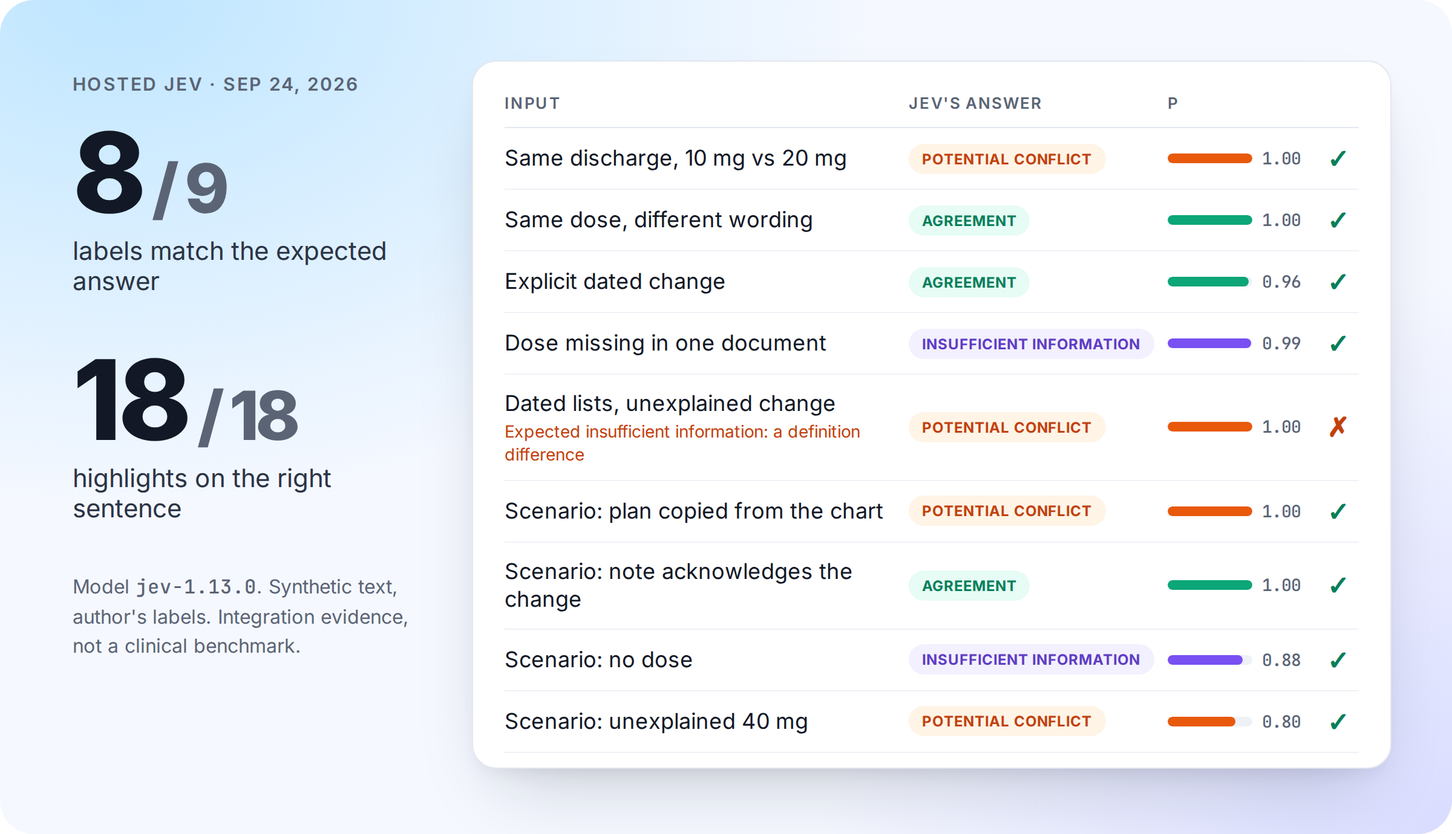
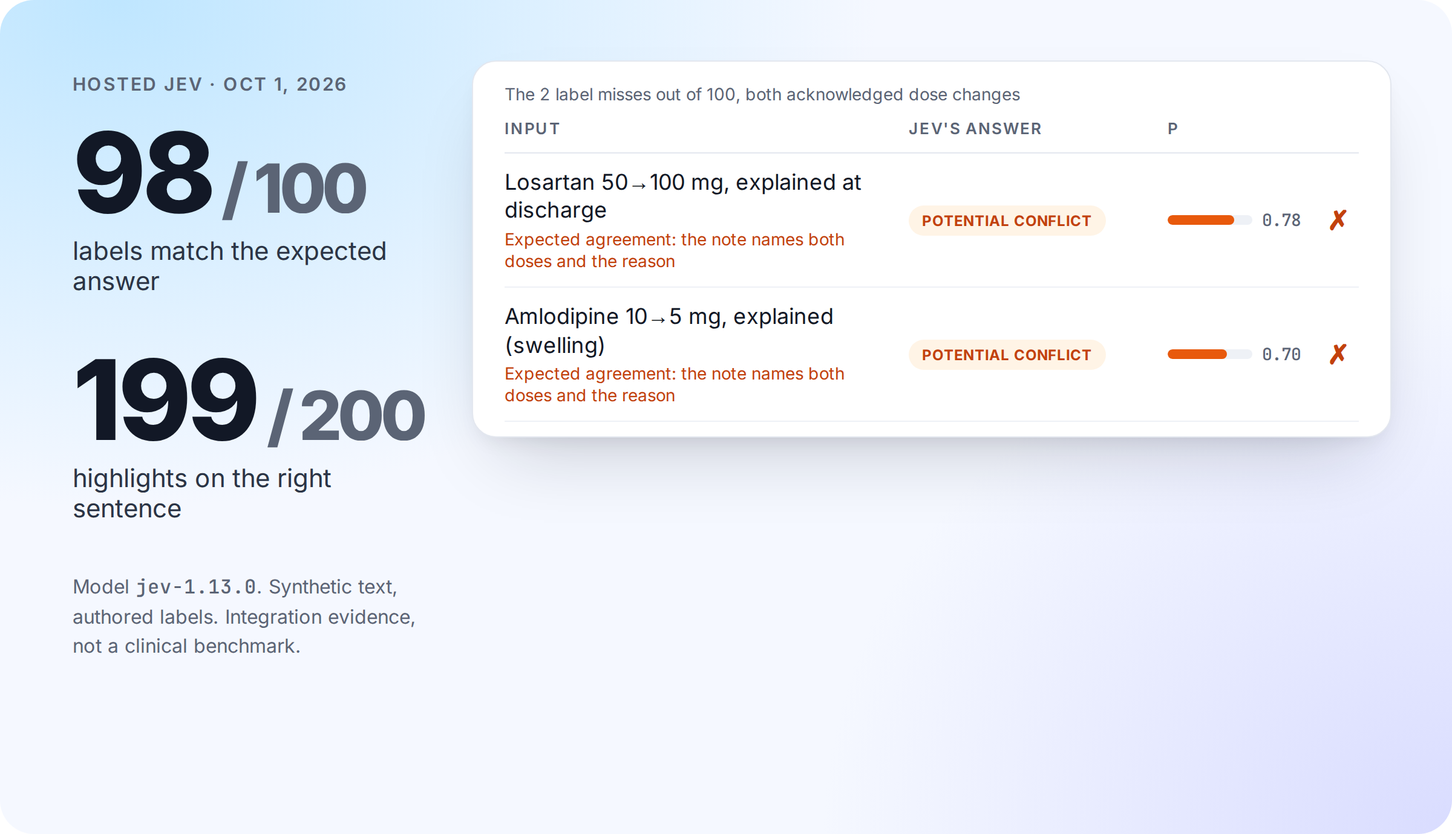
Re-measure all backends on a 100-case benchmark, fix review findings from the last commit
- Add the five original hand-written dose cases back to the generated benchmark (96 cases;
  100 with the scenario notes), with specs, and relabel dose-dates-unexplained to
  potential_conflict per the contract criteria.
- Measure hosted Jev (98/100, 199/200 highlights), Jebadiah 27B (92/100), AutoJev-27B
  (84/100) and Jebadiah 9B v2 (82/100) on October 1, 2026; every Jebadiah 27B miss is an
  acknowledged dose change. Rewrite ARTICLE.md's results and open-model sections and
  SELF-HOSTING.md steps 4, 6 and 7 around these runs; drop Decider everywhere.
- Fix the last commit: measure-cases.json is kept so `measure` checks the demo's own notes,
  not for the e2e cassettes; the hosted-Jev answer rule fired once, not "several" times;
  the misses' numbers are probabilities, not confidence; re-render results.png, which still
  showed 8/9.
- Backends figure: equal row heights so the two cards align, Jev's PHI path is uncertain
  (TypeSafe offers no BAA yet), Jebadiah's tag shows its benchmark score.

🤖 Generated with Claude Code (https://claude.com/claude-code)

diff --git a/article/figures.html b/article/figures.html
@@ -284,18 +284,18 @@
   <div style="position:absolute;left:0;right:0;top:504px;text-align:center;font-size:22px;font-weight:600;color:var(--body)">The model never changes the chart.</div>
 </figure>
 
-<!-- 7. Hosted Jev on the 95-case benchmark (4 scenario notes + 91 generated cases). -->
+<!-- 7. Hosted Jev on the 100-case benchmark (4 scenario notes + 96 generated cases). -->
 <figure id="results" style="height:690px">
   <div style="position:absolute;left:60px;top:60px;width:300px">
     <div class="eyebrow">Hosted Jev · Oct 1, 2026</div>
-    <div style="font-size:92px;font-weight:800;letter-spacing:-0.04em;margin-top:18px;line-height:1">92<span style="color:var(--muted);font-size:56px"> / 95</span></div>
+    <div style="font-size:92px;font-weight:800;letter-spacing:-0.04em;margin-top:18px;line-height:1">98<span style="color:var(--muted);font-size:56px"> / 100</span></div>
     <div style="font-size:21px;color:var(--body);margin-top:6px">labels match the expected answer</div>
-    <div style="font-size:92px;font-weight:800;letter-spacing:-0.04em;margin-top:40px;line-height:1">189<span style="color:var(--muted);font-size:56px"> / 190</span></div>
+    <div style="font-size:92px;font-weight:800;letter-spacing:-0.04em;margin-top:40px;line-height:1">199<span style="color:var(--muted);font-size:56px"> / 200</span></div>
     <div style="font-size:21px;color:var(--body);margin-top:6px">highlights on the right sentence</div>
     <div style="font-size:16px;color:var(--muted);margin-top:40px;line-height:1.5">Model <span class="mono">jev-1.13.0</span>. Synthetic text, authored labels. Integration evidence, not a clinical benchmark.</div>
   </div>
   <div class="card" style="position:absolute;left:390px;top:50px;width:760px;padding:18px 26px 12px">
-    <div style="font-size:14px;color:var(--muted);padding-bottom:4px">The 3 label misses out of 95, all acknowledged dose changes</div>
+    <div style="font-size:14px;color:var(--muted);padding-bottom:4px">The 2 label misses out of 100, both acknowledged dose changes</div>
     <div style="display:grid;grid-template-columns:1fr 200px 110px 34px;gap:14px;align-items:center;padding:8px 0 12px;border-bottom:1px solid var(--line)" class="eyebrow">
       <span style="font-size:13px">Input</span><span style="font-size:13px">Jev's answer</span><span style="font-size:13px">p</span><span></span>
     </div>
@@ -315,7 +315,7 @@
 </figure>
 
 <!-- 9. Hosted Jev or self-hosted Jebadiah (replaces the comparison table). -->
-<figure id="backends" style="height:620px">
+<figure id="backends" style="height:680px">
   <div style="position:absolute;left:0;right:0;top:40px;display:flex;justify-content:center">
     <div class="mono" style="background:#121826;color:#e6edf7;border-radius:12px;padding:10px 18px;font-size:18px">CONSISTENCY_BACKEND = <span style="color:#ffb37a">typesafe</span> | <span style="color:#ffb37a">modal</span></div>
   </div>
@@ -337,22 +337,21 @@
 
 <script>
 // Measured on October 1, 2026 (npm --prefix provider run measure:generated, plus the 4
-// scenario notes from `measure`); see ARTICLE.md. Shows only the 3 label misses out of 95.
+// scenario notes from `measure`); see ARTICLE.md. Shows only the 2 label misses out of 100.
 const LABEL = {
   potential_conflict: ['conflict', 'Potential conflict'],
   agreement: ['agree', 'Agreement'],
   insufficient_information: ['unknown', 'Insufficient information'],
 };
 const RESULTS = [
-  ['Losartan 50→100 mg, explained at discharge', 'agreement', 'potential_conflict', 0.83],
-  ['Amlodipine 10→5 mg, explained (swelling)', 'agreement', 'potential_conflict', 0.72],
-  ['Sertraline 100→50 mg, explained (side effect)', 'agreement', 'potential_conflict', 0.57],
+  ['Losartan 50→100 mg, explained at discharge', 'agreement', 'potential_conflict', 0.78],
+  ['Amlodipine 10→5 mg, explained (swelling)', 'agreement', 'potential_conflict', 0.70],
 ];
 const COLOR = { conflict: 'var(--conflict)', agree: 'var(--agree)', unknown: 'var(--unknown)' };
 document.getElementById('rows').innerHTML = RESULTS.map(([name, expected, got, p]) => {
   const [cls, text] = LABEL[got];
   const ok = expected === got;
-  const note = ok ? '' : `<div style="font-size:14px;color:var(--conflict-ink);margin-top:3px">Expected ${LABEL[expected][1].toLowerCase()}: a definition difference</div>`;
+  const note = ok ? '' : `<div style="font-size:14px;color:var(--conflict-ink);margin-top:3px">Expected ${LABEL[expected][1].toLowerCase()}: the note names both doses and the reason</div>`;
   return `<div style="display:grid;grid-template-columns:1fr 200px 110px 34px;gap:14px;align-items:center;padding:12px 0;border-bottom:1px solid #eef1f6">
     <div style="font-size:18px;line-height:1.3">${name}${note}</div>
     <div><span class="chip ${cls}" style="font-size:12px;padding:5px 11px">${text}</span></div>
@@ -386,9 +385,9 @@ const BACKENDS = [
     ['Input', 'Named JSON state and typed questions built from chart text'],
     ['Setup', 'An API key in Medplum project secrets'],
     ['Cost', 'Per request'],
-    ['PHI path', 'Needs a BAA or DPA with TypeSafe'],
+    ['PHI path', 'Uncertain: TypeSafe does not offer a BAA yet'],
   ] },
-  { title: 'Jebadiah on Modal', tag: ['unknown', 'Under evaluation'], accent: '#d5dbe8', rows: [
+  { title: 'Jebadiah on Modal', tag: ['unknown', '92 of 100 labels'], accent: '#d5dbe8', rows: [
     ['Model', 'Open Apache-2.0 checkpoint on a private Modal GPU Server'],
     ['Input', 'The same request as hosted Jev'],
     ['Setup', 'Weight staging, a GPU Server, proxy tokens, cold starts'],
@@ -398,10 +397,10 @@ const BACKENDS = [
 ];
 document.getElementById('backend-cards').innerHTML = BACKENDS.map((b) => `
   <div class="card" style="padding:28px 30px;border-color:${b.accent}">
-    <div style="display:flex;align-items:center;justify-content:space-between;gap:12px"><b style="font-size:28px;letter-spacing:-0.02em">${b.title}</b>
-      <span class="chip ${b.tag[0]}" style="font-size:12px;padding:5px 11px">${b.tag[1]}</span></div>
+    <div style="display:flex;align-items:center;justify-content:space-between;gap:12px;height:40px"><b style="font-size:28px;letter-spacing:-0.02em;white-space:nowrap">${b.title}</b>
+      <span class="chip ${b.tag[0]}" style="font-size:12px;padding:5px 11px;white-space:nowrap">${b.tag[1]}</span></div>
     <div style="margin-top:20px;display:flex;flex-direction:column">${b.rows.map(([k, v]) => `
-      <div style="display:grid;grid-template-columns:100px 1fr;gap:14px;padding:13px 0;border-top:1px solid #eef1f6">
+      <div style="display:grid;grid-template-columns:100px 1fr;gap:14px;padding:13px 0;min-height:77px;box-sizing:border-box;align-items:start;border-top:1px solid #eef1f6">
         <span class="eyebrow" style="font-size:13px;padding-top:3px">${k}</span><span style="font-size:18px;line-height:1.4;color:var(--body)">${v}</span></div>`).join('')}
     </div>
   </div>`).join('');

diff --git a/provider/scripts/measure-jev.ts b/provider/scripts/measure-jev.ts
@@ -2,14 +2,15 @@
 // exactly the state and questions the Bot sends (built by the Bot's own buildRequest).
 //
 //   npm --prefix provider run measure           # hosted Jev, the demo's 4 scenario notes, one round
-//   npm --prefix provider run measure:generated # hosted Jev, the ~90-case generated benchmark
+//   npm --prefix provider run measure:generated # hosted Jev, the 96-case generated benchmark
 //   npm --prefix provider run measure -- --rounds 3
 //   npm --prefix provider run measure -- --backend modal  # the self-hosted model on the private Modal Server
 //   npm --prefix provider run measure -- --cases scripts/gen-cases/generated-cases.json
 //
 // The generated batch (scripts/gen-cases/, see its README.md or the regenerate-measure-cases
-// skill to add more) is the benchmark; the scenario notes above stay here because the guided
-// demo's e2e cassettes replay them.
+// skill to add more) is the benchmark; the scenario notes stay here so a question or contract
+// change is checked against the exact notes the guided demo sends before its e2e cassettes are
+// re-recorded.
 //
 // Hosted Jev needs TYPESAFE_API_KEY; Modal needs CONSISTENCY_MODEL_URL, CONSISTENCY_MODAL_KEY
 // and CONSISTENCY_MODAL_SECRET, in the environment or the root .env. Writes

diff --git a/provider/bots/consistency.ts b/provider/bots/consistency.ts
@@ -551,8 +551,8 @@ export function readSentence(answer: any, text: string): string | null | undefin
 /**
  * Medication `i`'s result from the model's answers.
  *
- * The no-dose rule: Jebadiah, AutoJev and Decider each labeled a note with no dose `agreement`
- * while their own highlight question found no dose sentence. The dose criteria say a missing
+ * The no-dose rule: the self-hosted models (Jebadiah, AutoJev) labeled a note with no dose
+ * `agreement` while their own highlight question found no dose sentence. The dose criteria say a missing
  * dose is insufficient information, so the Bot trusts the highlight answer over an `agreement`
  * label. It never downgrades `potential_conflict`. Hosted Jev labels that note correctly itself.
  * @param answers - All answers of the model response.

diff --git a/ARTICLE.md b/ARTICLE.md
@@ -80,11 +80,11 @@ The provider's response is recorded with the result. Signing with a reason puts 
 
 ## How good is Jev? What the tests tell us
 
-As of October 1, 2026, model `jev-1.13.0` matched our expected label on 92 of 95 test inputs and selected the expected sentence for 189 of 190 highlights. The inputs are the guided demo's four scenario notes plus a generated batch of 91 cases covering dose increases and decreases, equivalent wordings (units, abbreviations, tablet counts), explicit acknowledgments, and missing or unmentioned doses, across more than 30 medications. `provider/scripts/gen-cases/` holds the specs and the prose Sonnet subagents wrote from them; see its README or the `regenerate-measure-cases` skill to extend the batch:
+As of October 1, 2026, model `jev-1.13.0` matched our expected label on 98 of 100 test inputs and selected the expected sentence for 199 of 200 highlights. The inputs are the guided demo's four scenario notes, our five original hand-written dose cases, and a generated batch of 91 cases covering dose increases and decreases, equivalent wordings (units, abbreviations, tablet counts), explicit acknowledgments, and missing or unmentioned doses, across 41 medications. `provider/scripts/gen-cases/` holds the specs and the prose Sonnet subagents wrote from them; see its README or the `regenerate-measure-cases` skill to extend the batch:
 
-![Hosted Jev, October 1, 2026, model jev-1.13.0: 92 of 95 labels match the expected answer and 189 of 190 highlights land on the right sentence.](article/images/results.png)
+![Hosted Jev, October 1, 2026, model jev-1.13.0: 98 of 100 labels match the expected answer and 199 of 200 highlights land on the right sentence.](article/images/results.png)
 
-The three label misses share a pattern. Each note explicitly named the old dose, the new dose, and a reason for the change — language the Bot's criteria call `agreement` — and Jev scored it `potential_conflict` instead, with confidence between 0.57 and 0.83. Most similarly worded acknowledgment cases in the same batch scored correctly, so this isn't a uniform failure; it looks sensitive to the specific acknowledgment phrasing rather than to acknowledgment itself. The one highlight miss picked a neighboring sentence over the one stating the dose, in a note using a wording pair (daily vs. once a day) outside what we'd tested before.
+The two label misses share a pattern. Each note explicitly named the old dose, the new dose, and a reason for the change — language the Bot's criteria call `agreement` — and Jev scored it `potential_conflict` instead, with probabilities of 0.78 and 0.70. A third acknowledged change, sertraline lowered from 100 mg to 50 mg, sits on the boundary: it scored `potential_conflict` at 0.57 in one run and `agreement` at 0.50 in the next. Most similarly worded acknowledgment cases in the same batch scored correctly, so this isn't a uniform failure; it looks sensitive to the specific acknowledgment phrasing rather than to acknowledgment itself. The one highlight miss picked a neighboring sentence over the one stating the dose, in a note using a wording pair (daily vs. once a day) outside what we'd tested before.
 
 That result makes acknowledgment phrasing part of the work still to evaluate. These are synthetic inputs generated from structured specs, not clinician-reviewed cases; they show how the model responds to our questions, not clinical accuracy. A clinical evaluation needs clinician-reviewed labels and must treat false agreements, which miss a dose error, differently from false conflicts, which cost the provider a review. Therefore, the displayed scores are a distribution over the available answers, not a measure of clinical correctness.
 
@@ -96,25 +96,24 @@ The Bot now asks for the dose "as the plan, whether continued, new or changed". 
 
 ## Evaluating an open model
 
-To explore running an open-weights model in our own [Modal](https://modal.com/) account, we deployed top-performing Jev-like open models on a private Modal GPU behind the same `/v1/systemone` request, so we can keep the same Medplum demo code. We took candidates with downloadable weights from the September 28 [Decision Index](https://huggingface.co/spaces/multimodalart/jev-decision-index) and ran the Bot's own requests for the nine-case set we had at the time (five authored dose cases and the four scenario notes). This comparison predates the larger generated benchmark above and is next in line for a refresh:
+To explore running an open-weights model in our own [Modal](https://modal.com/) account, we deployed top-performing Jev-like open models on a private Modal GPU behind the same `/v1/systemone` request, so we can keep the same Medplum demo code. We took candidates with downloadable weights from the September 28 [Decision Index](https://huggingface.co/spaces/multimodalart/jev-decision-index) and, on October 1, 2026, ran the Bot's own requests for the same 100-case benchmark as above on each of them:
 
 | Model | Decision Index | NLI4CT | Calibration error | Labels matching the reference | Highlights |
 | --- | ---: | ---: | ---: | ---: | ---: |
-| **Jebadiah 27B** | 54.67 | 0.832 | **0.014** | **8 of 9** | 18 of 18 |
-| AutoJev-27B | 56.40 | **0.848** | 0.018 | 7 of 9 | 18 of 18 |
-| Decider-35B-A3B NVFP4 | 47.11 | 0.785 | 0.023 | 7 of 9 | 18 of 18 |
-| Jebadiah 9B v2 | not listed | | | 6 of 9 | 17 of 18 |
-| Hosted Jev, for comparison | reference | 0.841 | | 8 of 9 | 18 of 18 |
+| **Jebadiah 27B** | 54.67 | 0.832 | **0.014** | **92 of 100** | 199 of 200 |
+| AutoJev-27B | 56.40 | **0.848** | 0.018 | 84 of 100 | 199 of 200 |
+| Jebadiah 9B v2 | not listed | | | 82 of 100 | 198 of 200 |
+| Hosted Jev, for comparison | reference | 0.841 | | 98 of 100 | 199 of 200 |
 
-The self-hosted labels include one answer rule. Jebadiah 27B, AutoJev and Decider each labeled the note with no dose `agreement` while their own highlight question found no dose sentence, so the Bot reports that case as insufficient information. Hosted Jev gets it right without the rule, which changes none of its answers.
+The self-hosted labels include one answer rule. All three open models label a note that never states a dose `agreement` while their own highlight question finds no dose sentence in it, so the Bot reports that case as insufficient information. The rule fired on 11 of the 100 cases for Jebadiah 27B and AutoJev and on 16 for Jebadiah 9B; hosted Jev needed it once. It never changes a `potential_conflict` answer.
 
-The top performing one was Jebadiah 27B. It matched hosted Jev's count, and its calibration error is the lowest among the top entries, which matters because the card shows the probabilities. AutoJev-27B ranks higher on the index and on clinical-trial statements (NLI4CT), but on our cases it mislabeled both dated dose changes, one of them at 0.99. The index's top entry, Surogate Rune, answers through its own serving engine and decision API rather than the `/v1/systemone` request the Bot sends, and has a calibration error of 0.12, therefore it wasn't tested. Jebadiah's remaining miss is a dated change with no explanation, which it flagged as a conflict (0.94) where the reference expects insufficient information.
+The top performing one was Jebadiah 27B, and its calibration error is the lowest among the top entries, which matters because the card shows the probabilities. Every one of its eight misses is an explicitly acknowledged dose change that it called `potential_conflict`, with probabilities between 0.51 and 0.63: the benchmark has 19 such cases, and it missed 8 of them where hosted Jev missed 2. AutoJev-27B ranks higher on the index and on clinical-trial statements (NLI4CT), but it reads acknowledgment even less often: 16 of its 19 acknowledged changes came back as conflicts. Jebadiah 9B missed 15 of them, plus one equivalent-wording case and two no-dose notes where its highlight question picked a non-dose sentence, so the rule could not help. The index's top entry, Surogate Rune, answers through its own serving engine and decision API rather than the `/v1/systemone` request the Bot sends, and has a calibration error of 0.12, therefore it wasn't tested.
 
 Jebadiah fine-tunes Qwen3.8-27B and reads each question's option logits in one forward pass, with a temperature fitted per question type. Its 56 GB of BF16 weights fit one A100 80 GB, about $3.16 per warm hour at list prices, scaling to zero between uses. Warm checks take 0.5–0.7 s; a cold start, including a kernel warm-up, usually takes three to four minutes, and once took 18 when the weights loaded slowly. It runs behind its authors' own server, pinned to a reviewed commit. More details at [Model card](https://huggingface.co/frontier-infra/jebadiah-27b), [server code](https://github.com/getainode/jebadiah), and our [SELF-HOSTING.md](SELF-HOSTING.md) documentation.
 
-![One project secret, CONSISTENCY_BACKEND, switches between hosted Jev (the default, which runs the guided demo: an API key, per-request cost, PHI needs a BAA or DPA with TypeSafe) and Jebadiah on Modal (the same request, an open checkpoint on a private GPU Server, about $3.16 per warm GPU hour and scaling to zero, PHI under Modal's Enterprise BAA).](article/images/backends.png)
+![One project secret, CONSISTENCY_BACKEND, switches between hosted Jev (the default, which runs the guided demo: an API key, per-request cost, PHI path uncertain because TypeSafe does not offer a BAA yet) and Jebadiah on Modal (the same request, an open checkpoint on a private GPU Server, about $3.16 per warm GPU hour and scaling to zero, 92 of 100 labels on our benchmark, PHI under Modal's Enterprise BAA).](article/images/backends.png)
 
-That nine-case comparison cannot tell these models apart with confidence, and the benchmark index does not answer which one is best for this check either. ContractNLI measures legal document entailment; NLI4CT measures clinical-trial statements. Neither measures medication reconciliation, and the entries use different hardware. Our cases point to dated dose changes as a weak spot, which is another reason to keep both passages visible to the provider. The [index data](https://huggingface.co/spaces/multimodalart/jev-decision-index/blob/main/data/index.json) and [methodology](https://huggingface.co/spaces/multimodalart/jev-decision-index/blob/main/data/methodology.json) provide more context for those open models.
+On 100 synthetic cases the gap between the open models and hosted Jev is clear, but the benchmark index does not predict it. ContractNLI measures legal document entailment; NLI4CT measures clinical-trial statements. Neither measures medication reconciliation, and the entries use different hardware. Our cases point to acknowledged dose changes as the open models' weak spot: they flag an explained change as a conflict, which costs the provider a review but does not hide an error. That is another reason to keep both passages visible to the provider. The [index data](https://huggingface.co/spaces/multimodalart/jev-decision-index/blob/main/data/index.json) and [methodology](https://huggingface.co/spaces/multimodalart/jev-decision-index/blob/main/data/methodology.json) provide more context for those open models.
 
 [DoccyHealth's Solomon](https://huggingface.co/DoccyHealth/Solomon) deserves a closer comparison because it was built for document-grounded healthcare questions. It uses trained answer heads and an adapter, with reusable document states and optional evidence pointers. Adopting it would require its own runtime and state-cache hosting. Its published validation covers 802 questions over 54 real documents, with AI-generated labels that were not human-verified, so it too needs a task-specific evaluation with clinicians.
 

diff --git a/SELF-HOSTING.md b/SELF-HOSTING.md
@@ -67,12 +67,12 @@ Never put them in frontend settings or logs; `npm --prefix provider run configur
 
 ```bash
 npm --prefix provider run measure -- --backend modal                                          # the demo's 4 scenario notes
-npm --prefix provider run measure -- --backend modal --cases scripts/gen-cases/generated-cases.json  # the ~90-case benchmark
+npm --prefix provider run measure -- --backend modal --cases scripts/gen-cases/generated-cases.json  # the 96 generated cases
 ```
 
 It sends the Bot's exact requests and writes `artifacts/modal-run-<UTC>.jsonl` with each label, the scores, the highlighted sentences and whether they hit the expected ones. It stops at the first 503: warm the Server first ([step 6](#6-cold-starts-and-warm-up)).
 
-**Result (pending a refresh).** On September 30, 2026, on the A100 (`artifacts/modal-run-20260930T145319Z.jsonl`), all 18 highlights hit the expected sentence and, with the [answer rule](#7-answer-rules), 8 of 9 labels matched the authored reference, as many as hosted Jev. Warm requests took 0.5–0.7 s. The eight guided-demo e2e tests, recorded through the real Bot against this Server, all passed. This ran on the original nine-case set, before the larger generated benchmark (see [ARTICLE.md](ARTICLE.md#how-good-is-jev-what-the-tests-tell-us)); a Modal run against that benchmark is the next step.
+**Result.** On October 1, 2026, on the A100 (`artifacts/modal-run-20261001T203442Z.jsonl` for the scenario notes and `artifacts/modal-run-20261001T204820Z.jsonl` for the generated cases), 199 of 200 highlights hit the expected sentence and, with the [answer rule](#7-answer-rules), 92 of 100 labels matched the reference; hosted Jev matched 98 on the same day. All eight misses are explicitly acknowledged dose changes labeled `potential_conflict` at 0.51–0.63 ([ARTICLE.md](ARTICLE.md#evaluating-an-open-model) compares the other open models). Warm requests took 0.5–0.6 s. The eight guided-demo e2e tests, recorded through the real Bot against this Server on September 30, all passed; neither the Bot nor the Server has changed since. One round on synthetic cases, not a clinical evaluation.
 
 ## 5. Run the guided demo on it
 
@@ -83,7 +83,7 @@ In Medplum Project Admin → Secrets, add the three secrets from step 3 and set 
 
 ## 6. Cold starts and warm-up
 
-Measured from zero containers on September 30, 2026: GPU scheduling and weight loading take 1–1.5 minutes, then a warm-up of about 2 minutes. `/health` answered 200 after **186 s and 223 s** in two runs. In a third, reading the weights from the Volume ran at about one file per second and took 14 minutes, so the Server was ready after 1,058 s; the logs show the `Loading weights` progress.
+Measured from zero containers on September 30, 2026: GPU scheduling and weight loading take 1–1.5 minutes, then a warm-up of about 2 minutes. `/health` answered 200 after **186 s and 223 s** in two runs (241 s and 179 s on October 1). In a third, reading the weights from the Volume ran at about one file per second and took 14 minutes, so the Server was ready after 1,058 s; the logs show the `Loading weights` progress.
 
 - The model's linear-attention kernels compile on first use for each input shape, which made the first requests take 10–37 s. Start-up therefore sends synthetic requests of 1 and 8 questions at five prompt lengths before the Server takes traffic; the Inference logs show `warm-up: … s` when it ends. The first real request then takes about 2 s.
 - While no container is ready, Modal's proxy answers **503 at once** (empty body); it does not queue the request. One request schedules a container, but requests 20 s apart once saw none for over 80 s, while retrying every 2 s scheduled one at once.
@@ -99,7 +99,7 @@ until [ "$(curl -s -o /dev/null -w '%{http_code}' -H "Modal-Key: $CONSISTENCY_MO
 
 ## 7. Answer rules
 
-When the model labels a medication `agreement` but its own highlight question found no dose sentence in one document, the Bot reports `insufficient_information` (`doseResult` in `provider/bots/consistency.ts`). It never downgrades `potential_conflict`. Jebadiah labeled "Plan: continue lisinopril." `agreement` while answering `none` for the highlight. The rule applies to both backends: on the October 1, 2026 hosted-Jev run against the generated benchmark (`artifacts/typesafe-run-20261001T194952Z.jsonl`), it fired on several "no dose in this document" cases, always correcting an `agreement` guess to `insufficient_information` and never changing a `potential_conflict` answer. A self-hosted run against that same benchmark is pending.
+When the model labels a medication `agreement` but its own highlight question found no dose sentence in one document, the Bot reports `insufficient_information` (`doseResult` in `provider/bots/consistency.ts`). It never downgrades `potential_conflict`. Jebadiah labeled "Plan: continue lisinopril." `agreement` while answering `none` for the highlight. The rule applies to both backends. On the October 1, 2026 runs against the 100-case benchmark it fired on 11 cases for Jebadiah (every note that continues a medication without a dose, plus the scenario note) and on one for hosted Jev (`artifacts/typesafe-run-20261001T204314Z.jsonl`, a 0.53 `agreement` guess on a no-dose note). Each time it turned an `agreement` label into `insufficient_information`, which was the expected answer; by construction it never touches a `potential_conflict` answer.
 
 ## 8. Cost
 

diff --git a/README.md b/README.md
@@ -95,7 +95,7 @@ Options: `--dry-run`, `--email <address>`, `--profile <name>` (a named CLI login
 | Lint with Medplum's ESLint config | `npm --prefix provider run lint` |
 | End-to-end tests (replaying recorded Jev answers) | `npm --prefix provider run test:e2e` |
 | Measure hosted Jev on the guided demo's scenario notes | `npm --prefix provider run measure` (add `-- --backend modal` for the self-hosted model) |
-| Measure hosted Jev on the larger generated benchmark (~90 cases) | `npm --prefix provider run measure:generated`; see `provider/scripts/gen-cases/README.md` |
+| Measure hosted Jev on the larger generated benchmark (96 cases; 100 with the scenario notes) | `npm --prefix provider run measure:generated`; see `provider/scripts/gen-cases/README.md` |
 | Bot artifact smoke test | `npm --prefix provider run test:bot-bundle` |
 | Production build | `npm --prefix provider run build` |
 
@@ -107,7 +107,7 @@ Edit the JSON directly; the Bot, the app and the measurement all read it:
 | --- | --- |
 | `provider/src/data/model-contract.json` | Model, labels, text limits and the question wording the Bot sends to Jev |
 | `provider/src/data/guided-scenario.json` | The synthetic discharge summary, prior note and side-path notes |
-| `provider/scripts/measure-cases.json` | The guided demo's scenario notes, needed for the e2e cassette replay |
+| `provider/scripts/measure-cases.json` | Expected labels and highlights for the guided demo's own scenario notes, so `measure` checks what the demo sends |
 | `provider/scripts/gen-cases/` | The larger generated benchmark: specs, generated cases and how to extend them |
 
 Then run `npm --prefix provider run measure`, redeploy with `npm --prefix provider run deploy:bot`, and re-record the e2e answers (below). `measure` needs `TYPESAFE_API_KEY` in the root `.env` and writes `artifacts/typesafe-run-<UTC>.jsonl` with each label, the probabilities and whether the highlights hit the expected sentences.
@@ -184,7 +184,7 @@ Add `TYPESAFE_API_KEY` and `CONSISTENCY_BACKEND=typesafe` as ordinary string sec
 
 ## Privacy
 
-TypeSafe's hosted API is used here with synthetic records only. A deployment that processes PHI needs a BAA or DPA with TypeSafe, or the self-hosted path, plus the controls described in the article.
+TypeSafe's hosted API is used here with synthetic records only. TypeSafe does not offer a BAA yet, so a deployment that processes PHI needs either a BAA or DPA from them once available, or the self-hosted path, plus the controls described in the article.
 
 ## Provenance
 

diff --git a/.agents/skills/regenerate-measure-cases/SKILL.md b/.agents/skills/regenerate-measure-cases/SKILL.md
@@ -6,10 +6,10 @@ description: Add to or regrow the generated benchmark of dose-reconciliation tes
 # Regenerating the generated measure-case benchmark
 
 `provider/scripts/gen-cases/generated-cases.json` holds a larger, regenerable batch of cases
-for `npm --prefix provider run measure:generated`, in the same shape as the hand-picked
-`measure-cases.json` used by the plain `measure` script (which stays scoped to the guided
-demo's four scenario notes, needed for its e2e cassette replay). This skill is the workflow for
-growing that generated batch.
+for `npm --prefix provider run measure:generated`, in the same shape as the entries
+`measure-cases.json` once held. That file now covers only the guided demo's four scenario
+notes, so the plain `measure` script checks the exact notes the demo sends. This skill is the
+workflow for growing the generated batch.
 
 Don't reach for Synthea or another synthetic-patient generator here: its clinical notes are
 filled-in templates generated from its own simulated record, so a note can never disagree with
@@ -31,7 +31,7 @@ prose and the conflict still have to come from a spec, not a generated chart.
   against the model contract's limits and catches mistakes a spec-writer could make: a missing
   highlight substring, a date inside document text, a medication mentioned where the spec
   forbids it, or a dose term absent from the document that's supposed to state it. Run
-  standalone: `npx tsx provider/scripts/gen-cases/validate-cases.ts [path]`, or
+  standalone: `node provider/scripts/gen-cases/validate-cases.ts [path]`, or
   `npm --prefix provider run validate:generated-cases`.
 
 ## Case design
@@ -51,7 +51,7 @@ expected label, matching `model-contract.json`'s three criteria:
 - **Hard cases worth covering:** equivalent wording that should read as agreement ("two 10 mg
   tablets" vs. "20 mg", "BID" vs. "twice daily", "mcg" vs. "mg"); acknowledgment phrasing that
   might not be read as acknowledgment (a past hosted-Jev run scored three differently-phrased
-  "explained dose change" cases as `potential_conflict` at 0.57–0.83 confidence where most
+  "explained dose change" cases as `potential_conflict` with probability 0.57–0.83 where most
   similarly-worded ones scored correctly — this looks sensitive to the specific acknowledgment
   wording, so cover a range of it); one document missing a dose vs. missing the medication
   entirely; dated lists with no connecting language.

diff --git a/provider/scripts/gen-cases/README.md b/provider/scripts/gen-cases/README.md
@@ -1,8 +1,8 @@
 # Generated measure cases
 
 A larger, regenerable benchmark for `npm --prefix provider run measure:generated`, separate
-from the hand-picked `measure-cases.json` (which stays scoped to the guided demo's four scenario
-notes, needed for its e2e cassette replay).
+from `measure-cases.json` (which stays scoped to the guided demo's four scenario notes, so the
+plain `measure` checks the exact notes the demo sends).
 
 - `case-specs.json` — structured specs (medication, doses, acknowledgment flag, expected label),
   no prose.
